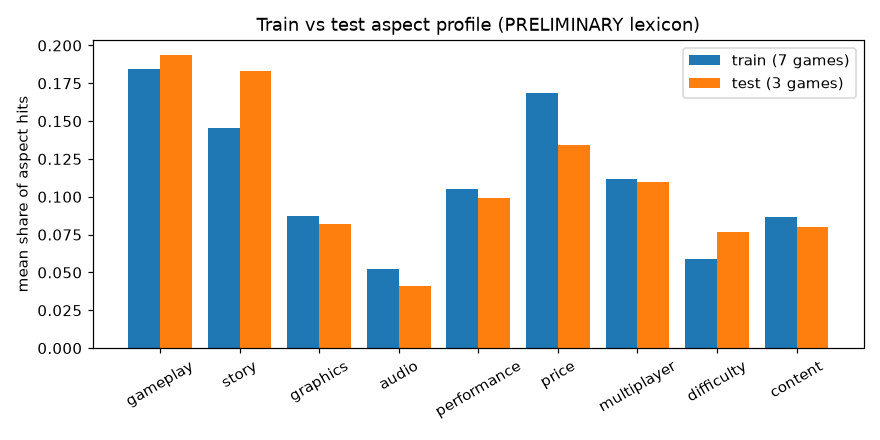
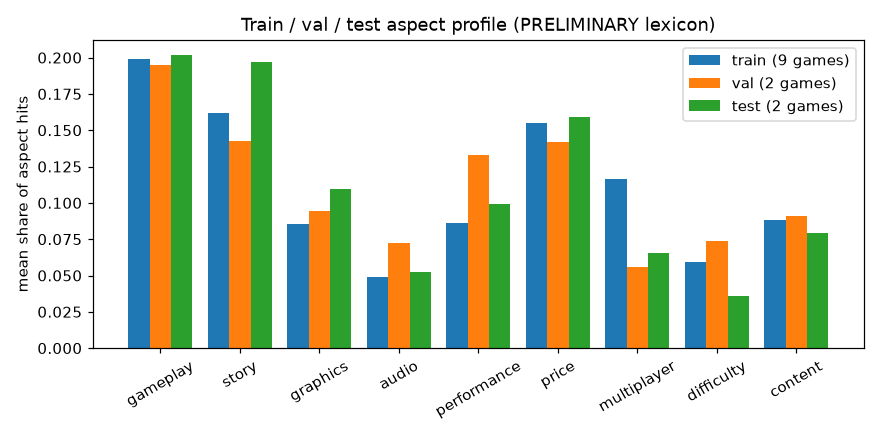
docs(eda): update EDA outputs for the 9/2/2 split and 75-review sample
7,006 sentences to verify (about 10-19 h): train 5,154, val 1,001, test 851.

diff --git a/experiments/task2_aspect/eda/outputs/eda_report.md b/experiments/task2_aspect/eda/outputs/eda_report.md
@@ -29,23 +29,28 @@ Anything that depends on the lexicon is **PRELIMINARY** (placeholder seed lexico
   entities (`html.unescape`) before labeling.
 - Labels are skewed: 82.0% of reviews are recommended (`score_distribution.csv`).
 
-### (b) Recommended games and 7/3 split — PRELIMINARY
+### (b) Recommended games and 9/2/2 train/val/test split — PRELIMINARY
+
+Owner decision (2026-11-16): 13 games split **by game** 9 / 2 / 2 (≈ 69 / 15 / 15), so val and
+test games are never seen in training. The 13 are the earlier 10 picks plus their 3 backups.
 
 | split | games |
 |---|---|
-| train (7) | Lara Croft and the Temple of Osiris (289690), Sniper: Ghost Warrior 2 (34870), Test Drive Unlimited 2 (9930), Might & Magic: Heroes VI (48220), Company of Heroes 2 (231430), Two Worlds II HD (7520), Paper Sorcerer (263560) |
-| test (3) | HITMAN (236870), Alien Rage - Unlimited (217920), Transformers: Rise of the Dark Spark (245760) |
-| backup | Battlefleet Gothic: Armada (363680), Toren (320820), Tony Hawk's Pro Skater HD (207210) |
+| train (9) | Lara Croft and the Temple of Osiris (289690), HITMAN (236870), Alien Rage - Unlimited (217920), Test Drive Unlimited 2 (9930), Company of Heroes 2 (231430), Transformers: Rise of the Dark Spark (245760), Battlefleet Gothic: Armada (363680), Toren (320820), Tony Hawk's Pro Skater HD (207210) |
+| val (2) | Might & Magic: Heroes VI (48220), Paper Sorcerer (263560) |
+| test (2) | Sniper: Ghost Warrior 2 (34870), Two Worlds II HD (7520) |
+| backup | Grey Goo (290790), Armikrog (334120), Call of Juarez: The Cartel (33420) |
 
 Source and one-line justifications: `../selected_games.csv`. Genres span action-adventure,
-shooters, stealth, racing, turn-based and real-time strategy, an action RPG and a dungeon
-crawler. All 10 have >= 7 of the 9 aspects at >= 5% of their lexicon hits
-(`selected_games_metrics.csv`). The split is close on every axis: JS divergence of the
-aspect profiles 0.0047 bits, recommend-share gap 0.006, hit-rate gap 0.021, best of 120
-partitions (`split_objective.json`, `split_comparison.csv`). Train and test do differ in median
-review length (223 vs 338 chars).
+shooters, stealth, racing, skateboarding, turn-based and real-time strategy, a puzzle
+platformer, an action RPG and a dungeon crawler. All 13 have >= 7 of the 9 aspects at >= 5%
+of their lexicon hits (`selected_games_metrics.csv`). Best of 4,290 partitions
+(`split_objective.json`, `split_comparison.csv`): train vs val JS divergence 0.0147 bits,
+recommend-share gap 0.003, hit-rate gap 0.017; train vs test 0.0102 bits, 0.003, 0.010.
+Known imbalance: **multiplayer** is rarer in val (0.056) and test (0.066) than in train
+(0.117), and test reviews are shorter (median 205 vs 295 chars in train).
 
-Check before committing to these: the picks lean **negative** (mean recommend share 0.57 vs
+Check before committing to these: the picks lean **negative** (mean recommend share 0.59 vs
 0.82 corpus-wide, `split_comparison.csv`, `score_distribution.csv`) because the score rewards
 some criticism; they lean towards **action/shooter**; Transformers has only 226 clean reviews.
 Swap in a backup if you want a more positive or less action-heavy set.
@@ -101,13 +106,13 @@ strongest) or map them to `other`.
 
 ### (f) Manual-verification workload
 
-Scope reduced to **50 reviews per game** (decision of the Task 2 owner, 2026-11-16):
-500 reviews → **3,609 sentences** (3,321 with >= 4 tokens): train 2,334 sentences from 7
-games, test 1,275 from 3 games. At 5–10 s per sentence to verify an LLM label that is
-**5–10 hours** (`candidate_sample_summary.csv`). The longest is Transformers: 575
-sentences. The 50-review sample is the first 50 of the same seeded per-game shuffle, so it
-is a strict subset of the earlier 150-review draw (10,145 sentences, 14–28 h) and can be
-grown later without relabeling.
+Owner decision (2026-11-16): an LLM pre-labels every sentence and the owner verifies, with
+**75 reviews per game** over the 13 games: 975 reviews → **7,006 sentences** (6,451 with >= 4
+tokens). By sentences the split is train 5,154 (74%) / val 1,001 (14%) / test 851 (12%);
+Transformers alone has 977 sentences. At 5–10 s per sentence to verify an LLM label that is
+**10–19 hours** (`candidate_sample_summary.csv`). For the original 10 games the 75 reviews
+are the first 75 of the same seeded per-game shuffle, i.e. a subset of the earlier
+150-review draw, so the sample can grow later without relabeling.
 
 ### (g) Risks and open questions
 
@@ -701,67 +706,77 @@ _Source: `tables/topic_candidate_themes.csv`_
 
 ## 5. Game selection — PRELIMINARY (depends on the lexicon)
 
-Candidates: games with >= 200 clean English reviews. Score = weighted sum of z-scores (hit_rate×1.0, aspect_entropy×1.0, aspects_ge_5pct×0.5, informative_share×1.0, log_n_clean×0.25, negative_share_capped×0.5). Steam metadata fetched for the top 150; then greedy picks with at least 3 games having >= 25% negative reviews, at most 1 game per primary SteamSpy tag and 4 per Steam genre. Genres come from the Steam store / SteamSpy, not inferred from names. Split: all 7/3 partitions searched, minimizing JS divergence of mean aspect profiles + ½ gap in recommend share + ½ gap in hit rate, with >= 1 negative-heavy game in test.
+Candidates: games with >= 200 clean English reviews. Score = weighted sum of z-scores (hit_rate×1.0, aspect_entropy×1.0, aspects_ge_5pct×0.5, informative_share×1.0, log_n_clean×0.25, negative_share_capped×0.5). Steam metadata fetched for the top 150; then greedy picks with at least 3 games having >= 25% negative reviews, at most 1 game per primary SteamSpy tag and 4 per Steam genre. Genres come from the Steam store / SteamSpy, not inferred from names. Split by game: all 9/2/2 (train/val/test) partitions searched, minimizing, for val and for test against train, JS divergence of mean aspect profiles + ½ gap in recommend share + ½ gap in hit rate, with >= 1 negative-heavy game in both val and test.
 
 | game_id | name | split | justification |
 |---|---|---|---|
 | 289690 | LARA CROFT AND THE TEMPLE OF OSIRIS™ | train | Puzzle; 402 clean EN reviews, 57% negative; lexicon hit rate 41%, 8 aspects >=5% (top: gameplay 25%, multiplayer 19%, performance 16%) |
-| 34870 | Sniper: Ghost Warrior 2 | train | Sniper; 1,335 clean EN reviews, 37% negative; lexicon hit rate 40%, 8 aspects >=5% (top: story 18%, gameplay 15%, price 14%) |
-| 236870 | HITMAN™ | test | Stealth; 3,563 clean EN reviews, 38% negative; lexicon hit rate 36%, 8 aspects >=5% (top: gameplay 23%, price 18%, multiplayer 14%) |
-| 217920 | Alien Rage - Unlimited | test | Shooter; 452 clean EN reviews, 29% negative; lexicon hit rate 40%, 8 aspects >=5% (top: gameplay 21%, story 15%, performance 14%) |
+| 34870 | Sniper: Ghost Warrior 2 | test | Sniper; 1,335 clean EN reviews, 37% negative; lexicon hit rate 40%, 8 aspects >=5% (top: story 18%, gameplay 15%, price 14%) |
+| 236870 | HITMAN™ | train | Stealth; 3,563 clean EN reviews, 38% negative; lexicon hit rate 36%, 8 aspects >=5% (top: gameplay 23%, price 18%, multiplayer 14%) |
+| 217920 | Alien Rage - Unlimited | train | Shooter; 452 clean EN reviews, 29% negative; lexicon hit rate 40%, 8 aspects >=5% (top: gameplay 21%, story 15%, performance 14%) |
 | 9930 | Test Drive Unlimited 2 | train | Racing; 1,929 clean EN reviews, 46% negative; lexicon hit rate 30%, 9 aspects >=5% (top: price 24%, multiplayer 22%, story 10%) |
-| 48220 | Might & Magic: Heroes VI | train | Turn-Based Strategy; 1,950 clean EN reviews, 65% negative; lexicon hit rate 29%, 8 aspects >=5% (top: performance 19%, price 18%, story 12%) |
+| 48220 | Might & Magic: Heroes VI | val | Turn-Based Strategy; 1,950 clean EN reviews, 65% negative; lexicon hit rate 29%, 8 aspects >=5% (top: performance 19%, price 18%, story 12%) |
 | 231430 | Company of Heroes 2 | train | World War II; 9,845 clean EN reviews, 29% negative; lexicon hit rate 35%, 8 aspects >=5% (top: price 26%, gameplay 17%, multiplayer 14%) |
-| 7520 | Two Worlds II HD | train | Third Person; 1,517 clean EN reviews, 46% negative; lexicon hit rate 35%, 8 aspects >=5% (top: gameplay 25%, story 21%, price 18%) |
-| 245760 | TRANSFORMERS: Rise of the Dark Spark | test | Robots; 226 clean EN reviews, 62% negative; lexicon hit rate 38%, 7 aspects >=5% (top: story 32%, gameplay 14%, price 13%) |
-| 263560 | Paper Sorcerer | train | Dungeon Crawler; 366 clean EN reviews, 17% negative; lexicon hit rate 41%, 8 aspects >=5% (top: gameplay 29%, story 16%, audio 13%) |
-| 363680 | Battlefleet Gothic: Armada (Classic) | backup | Warhammer 40K; 1,879 clean EN reviews, 30% negative; lexicon hit rate 35%, 8 aspects >=5% (top: gameplay 26%, story 21%, multiplayer 10%) |
-| 320820 | Toren | backup | Puzzle-Platformer; 332 clean EN reviews, 35% negative; lexicon hit rate 46%, 7 aspects >=5% (top: story 28%, gameplay 26%, graphics 14%) |
-| 207210 | Tony Hawks Pro Skater HD | backup | Sports; 787 clean EN reviews, 41% negative; lexicon hit rate 29%, 8 aspects >=5% (top: price 22%, gameplay 19%, graphics 12%) |
+| 7520 | Two Worlds II HD | test | Third Person; 1,517 clean EN reviews, 46% negative; lexicon hit rate 35%, 8 aspects >=5% (top: gameplay 25%, story 21%, price 18%) |
+| 245760 | TRANSFORMERS: Rise of the Dark Spark | train | Robots; 226 clean EN reviews, 62% negative; lexicon hit rate 38%, 7 aspects >=5% (top: story 32%, gameplay 14%, price 13%) |
+| 263560 | Paper Sorcerer | val | Dungeon Crawler; 366 clean EN reviews, 17% negative; lexicon hit rate 41%, 8 aspects >=5% (top: gameplay 29%, story 16%, audio 13%) |
+| 363680 | Battlefleet Gothic: Armada (Classic) | train | Warhammer 40K; 1,879 clean EN reviews, 30% negative; lexicon hit rate 35%, 8 aspects >=5% (top: gameplay 26%, story 21%, multiplayer 10%) |
+| 320820 | Toren | train | Puzzle-Platformer; 332 clean EN reviews, 35% negative; lexicon hit rate 46%, 7 aspects >=5% (top: story 28%, gameplay 26%, graphics 14%) |
+| 207210 | Tony Hawks Pro Skater HD | train | Sports; 787 clean EN reviews, 41% negative; lexicon hit rate 29%, 8 aspects >=5% (top: price 22%, gameplay 19%, graphics 12%) |
+| 290790 | Grey Goo | backup | RTS; 1,676 clean EN reviews, 30% negative; lexicon hit rate 28%, 9 aspects >=5% (top: story 24%, gameplay 20%, price 13%) |
+| 334120 | Armikrog | backup | Point & Click; 462 clean EN reviews, 53% negative; lexicon hit rate 38%, 7 aspects >=5% (top: gameplay 25%, story 21%, audio 14%) |
+| 33420 | Call of Juarez: The Cartel | backup | FPS; 213 clean EN reviews, 65% negative; lexicon hit rate 34%, 8 aspects >=5% (top: story 28%, gameplay 15%, price 12%) |
 
 _Source: `selected_games.csv`_
 
 | app_id | name | split | primary_tag | n_clean | median_chars_clean | hit_rate | aspects_ge_5pct | aspect_entropy | informative_share | pos_share_clean | score |
 |---|---|---|---|---|---|---|---|---|---|---|---|
-| 363,680 | Battlefleet Gothic: Armada (Classic) | backup | Warhammer 40K | 1,879 | 313 | 0.347 | 8 | 0.917 | 0.957 | 0.698 | 3.165 |
-| 320,820 | Toren | backup | Puzzle-Platformer | 332 | 472 | 0.456 | 7 | 0.830 | 0.991 | 0.648 | 3.146 |
-| 207,210 | Tony Hawks Pro Skater HD | backup | Sports | 787 | 242 | 0.293 | 8 | 0.939 | 0.980 | 0.595 | 3.112 |
-| 236,870 | HITMAN™ | test | Stealth | 3,563 | 353 | 0.362 | 8 | 0.926 | 0.970 | 0.619 | 4.028 |
-| 217,920 | Alien Rage - Unlimited | test | Shooter | 452 | 285.500 | 0.396 | 8 | 0.956 | 0.962 | 0.715 | 4.018 |
-| 245,760 | TRANSFORMERS: Rise of the Dark Spark | test | Robots | 226 | 375.500 | 0.383 | 7 | 0.894 | 0.966 | 0.376 | 3.193 |
+| 290,790 | Grey Goo | backup | RTS | 1,676 | 279.500 | 0.280 | 9 | 0.937 | 0.969 | 0.696 | 3.087 |
+| 334,120 | Armikrog | backup | Point & Click | 462 | 501 | 0.379 | 7 | 0.874 | 0.964 | 0.470 | 3.021 |
+| 33,420 | Call of Juarez: The Cartel | backup | FPS | 213 | 251 | 0.341 | 8 | 0.918 | 0.925 | 0.352 | 3.016 |
+| 34,870 | Sniper: Ghost Warrior 2 | test | Sniper | 1,335 | 170 | 0.399 | 8 | 0.962 | 0.939 | 0.634 | 4.448 |
+| 7,520 | Two Worlds II HD | test | Third Person | 1,517 | 240 | 0.354 | 8 | 0.891 | 0.948 | 0.544 | 3.321 |
 | 289,690 | LARA CROFT AND THE TEMPLE OF OSIRIS™ | train | Puzzle | 402 | 264.500 | 0.411 | 8 | 0.911 | 0.983 | 0.428 | 4.552 |
-| 34,870 | Sniper: Ghost Warrior 2 | train | Sniper | 1,335 | 170 | 0.399 | 8 | 0.962 | 0.939 | 0.634 | 4.448 |
+| 236,870 | HITMAN™ | train | Stealth | 3,563 | 353 | 0.362 | 8 | 0.926 | 0.970 | 0.619 | 4.028 |
+| 217,920 | Alien Rage - Unlimited | train | Shooter | 452 | 285.500 | 0.396 | 8 | 0.956 | 0.962 | 0.715 | 4.018 |
 | 9,930 | Test Drive Unlimited 2 | train | Racing | 1,929 | 178 | 0.304 | 9 | 0.929 | 0.942 | 0.536 | 3.642 |
-| 48,220 | Might & Magic: Heroes VI | train | Turn-Based Strategy | 1,950 | 223 | 0.287 | 8 | 0.947 | 0.964 | 0.349 | 3.521 |
 | 231,430 | Company of Heroes 2 | train | World War II | 9,845 | 170 | 0.349 | 8 | 0.919 | 0.940 | 0.711 | 3.388 |
-| 7,520 | Two Worlds II HD | train | Third Person | 1,517 | 240 | 0.354 | 8 | 0.891 | 0.948 | 0.544 | 3.321 |
-| 263,560 | Paper Sorcerer | train | Dungeon Crawler | 366 | 318.500 | 0.413 | 8 | 0.886 | 0.992 | 0.828 | 3.173 |
+| 245,760 | TRANSFORMERS: Rise of the Dark Spark | train | Robots | 226 | 375.500 | 0.383 | 7 | 0.894 | 0.966 | 0.376 | 3.193 |
+| 363,680 | Battlefleet Gothic: Armada (Classic) | train | Warhammer 40K | 1,879 | 313 | 0.347 | 8 | 0.917 | 0.957 | 0.698 | 3.165 |
+| 320,820 | Toren | train | Puzzle-Platformer | 332 | 472 | 0.456 | 7 | 0.830 | 0.991 | 0.648 | 3.146 |
+| 207,210 | Tony Hawks Pro Skater HD | train | Sports | 787 | 242 | 0.293 | 8 | 0.939 | 0.980 | 0.595 | 3.112 |
+| 48,220 | Might & Magic: Heroes VI | val | Turn-Based Strategy | 1,950 | 223 | 0.287 | 8 | 0.947 | 0.964 | 0.349 | 3.521 |
+| 263,560 | Paper Sorcerer | val | Dungeon Crawler | 366 | 318.500 | 0.413 | 8 | 0.886 | 0.992 | 0.828 | 3.173 |
 
 _Source: `tables/selected_games_metrics.csv`_
 
-| metric | train | test |
-|---|---|---|
-| share_gameplay | 0.184 | 0.194 |
-| share_story | 0.145 | 0.183 |
-| share_graphics | 0.087 | 0.082 |
-| share_audio | 0.052 | 0.041 |
-| share_performance | 0.105 | 0.099 |
-| share_price | 0.169 | 0.134 |
-| share_multiplayer | 0.112 | 0.110 |
-| share_difficulty | 0.059 | 0.077 |
-| share_content | 0.087 | 0.080 |
-| hit_rate | 0.360 | 0.380 |
-| pos_share_clean | 0.576 | 0.570 |
-| aspect_entropy | 0.921 | 0.925 |
-| median_chars_clean | 223.429 | 338 |
+| metric | train | val | test |
+|---|---|---|---|
+| share_gameplay | 0.199 | 0.195 | 0.202 |
+| share_story | 0.162 | 0.142 | 0.197 |
+| share_graphics | 0.085 | 0.095 | 0.109 |
+| share_audio | 0.049 | 0.072 | 0.052 |
+| share_performance | 0.086 | 0.133 | 0.099 |
+| share_price | 0.155 | 0.142 | 0.159 |
+| share_multiplayer | 0.117 | 0.056 | 0.066 |
+| share_difficulty | 0.059 | 0.074 | 0.036 |
+| share_content | 0.088 | 0.091 | 0.079 |
+| hit_rate | 0.367 | 0.350 | 0.377 |
+| pos_share_clean | 0.592 | 0.588 | 0.589 |
+| aspect_entropy | 0.913 | 0.916 | 0.926 |
+| median_chars_clean | 294.833 | 270.750 | 205 |
+| games | 9.000 | 2.000 | 2.000 |
 
 _Source: `tables/split_comparison.csv`_
 
-Split objective (`tables/split_objective.json`): JS divergence 0.0047 bits, recommend-share gap 0.006, hit-rate gap 0.021, over 120 partitions.
+- train vs val: JS divergence 0.0147 bits, recommend-share gap 0.003, hit-rate gap 0.017
+- train vs test: JS divergence 0.0102 bits, recommend-share gap 0.003, hit-rate gap 0.010
 
-![Train vs test aspect profile](figures/split_comparison.png)
+Best of 4,290 partitions (`tables/split_objective.json`).
 
-_Train vs test aspect profile_
+![Train / val / test aspect profile](figures/split_comparison.png)
+
+_Train / val / test aspect profile_
 
 Top 20 scored candidates:
 
@@ -792,20 +807,23 @@ _Source: `tables/game_candidates_scored.csv` (first 20 of 2346 rows)_
 
 ## 6. Candidate labeling sample (not labeled, not committed)
 
-`data/processed/candidate_sample.csv` and `.jsonl`: 50 clean English reviews per selected game, uniform random from the game's full clean pool, seed 42, same splitter. Columns: game_id, game_name, split, review_id (raw CSV row number), sentence_id (`<review_id>-<k>`), sentence, recommended, n_words. Workload assumes [5, 10] seconds to verify one LLM label.
+`data/processed/candidate_sample.csv` and `.jsonl`: 75 clean English reviews per selected game, uniform random from the game's full clean pool, seed 42, same splitter. Columns: game_id, game_name, split, review_id (raw CSV row number), sentence_id (`<review_id>-<k>`), sentence, recommended, n_words. Workload assumes [5, 10] seconds to verify one LLM label.
 
 | game_id | game_name | split | reviews | sentences | informative_sentences | recommended_share | verify_hours_low | verify_hours_high |
 |---|---|---|---|---|---|---|---|---|
-| 7,520 | Two Worlds II HD | train | 50 | 316 | 291 | 0.668 | 0.439 | 0.878 |
-| 9,930 | Test Drive Unlimited 2 | train | 50 | 325 | 295 | 0.526 | 0.451 | 0.903 |
-| 34,870 | Sniper: Ghost Warrior 2 | train | 50 | 269 | 249 | 0.710 | 0.374 | 0.747 |
-| 48,220 | Might & Magic: Heroes VI | train | 50 | 289 | 266 | 0.384 | 0.401 | 0.803 |
-| 231,430 | Company of Heroes 2 | train | 50 | 330 | 297 | 0.379 | 0.458 | 0.917 |
-| 263,560 | Paper Sorcerer | train | 50 | 427 | 405 | 0.892 | 0.593 | 1.186 |
-| 289,690 | LARA CROFT AND THE TEMPLE OF OSIRIS™ | train | 50 | 378 | 349 | 0.619 | 0.525 | 1.050 |
-| 217,920 | Alien Rage - Unlimited | test | 50 | 356 | 326 | 0.716 | 0.494 | 0.989 |
-| 236,870 | HITMAN™ | test | 50 | 344 | 313 | 0.584 | 0.478 | 0.956 |
-| 245,760 | TRANSFORMERS: Rise of the Dark Spark | test | 50 | 575 | 530 | 0.190 | 0.799 | 1.597 |
-|  | TOTAL |  | 500 | 3,609 | 3,321 |  | 5.013 | 10.025 |
+| 48,220 | Might & Magic: Heroes VI | val | 75 | 437 | 405 | 0.359 | 0.607 | 1.214 |
+| 263,560 | Paper Sorcerer | val | 75 | 564 | 538 | 0.825 | 0.783 | 1.567 |
+| 9,930 | Test Drive Unlimited 2 | train | 75 | 425 | 386 | 0.499 | 0.590 | 1.181 |
+| 207,210 | Tony Hawks Pro Skater HD | train | 75 | 386 | 362 | 0.474 | 0.536 | 1.072 |
+| 217,920 | Alien Rage - Unlimited | train | 75 | 561 | 509 | 0.674 | 0.779 | 1.558 |
+| 231,430 | Company of Heroes 2 | train | 75 | 462 | 422 | 0.411 | 0.642 | 1.283 |
+| 236,870 | HITMAN™ | train | 75 | 555 | 509 | 0.540 | 0.771 | 1.542 |
+| 245,760 | TRANSFORMERS: Rise of the Dark Spark | train | 75 | 977 | 890 | 0.172 | 1.357 | 2.714 |
+| 289,690 | LARA CROFT AND THE TEMPLE OF OSIRIS™ | train | 75 | 545 | 500 | 0.501 | 0.757 | 1.514 |
+| 320,820 | Toren | train | 75 | 682 | 626 | 0.689 | 0.947 | 1.894 |
+| 363,680 | Battlefleet Gothic: Armada (Classic) | train | 75 | 561 | 522 | 0.590 | 0.779 | 1.558 |
+| 7,520 | Two Worlds II HD | test | 75 | 459 | 426 | 0.588 | 0.637 | 1.275 |
+| 34,870 | Sniper: Ghost Warrior 2 | test | 75 | 392 | 356 | 0.732 | 0.544 | 1.089 |
+|  | TOTAL |  | 975 | 7,006 | 6,451 |  | 9.731 | 19.461 |
 
 _Source: `tables/candidate_sample_summary.csv`_

diff --git a/experiments/task2_aspect/eda/outputs/decisions.md b/experiments/task2_aspect/eda/outputs/decisions.md
@@ -19,23 +19,28 @@ Anything that depends on the lexicon is **PRELIMINARY** (placeholder seed lexico
   entities (`html.unescape`) before labeling.
 - Labels are skewed: 82.0% of reviews are recommended (`score_distribution.csv`).
 
-### (b) Recommended games and 7/3 split — PRELIMINARY
+### (b) Recommended games and 9/2/2 train/val/test split — PRELIMINARY
+
+Owner decision (2026-11-16): 13 games split **by game** 9 / 2 / 2 (≈ 69 / 15 / 15), so val and
+test games are never seen in training. The 13 are the earlier 10 picks plus their 3 backups.
 
 | split | games |
 |---|---|
-| train (7) | Lara Croft and the Temple of Osiris (289690), Sniper: Ghost Warrior 2 (34870), Test Drive Unlimited 2 (9930), Might & Magic: Heroes VI (48220), Company of Heroes 2 (231430), Two Worlds II HD (7520), Paper Sorcerer (263560) |
-| test (3) | HITMAN (236870), Alien Rage - Unlimited (217920), Transformers: Rise of the Dark Spark (245760) |
-| backup | Battlefleet Gothic: Armada (363680), Toren (320820), Tony Hawk's Pro Skater HD (207210) |
+| train (9) | Lara Croft and the Temple of Osiris (289690), HITMAN (236870), Alien Rage - Unlimited (217920), Test Drive Unlimited 2 (9930), Company of Heroes 2 (231430), Transformers: Rise of the Dark Spark (245760), Battlefleet Gothic: Armada (363680), Toren (320820), Tony Hawk's Pro Skater HD (207210) |
+| val (2) | Might & Magic: Heroes VI (48220), Paper Sorcerer (263560) |
+| test (2) | Sniper: Ghost Warrior 2 (34870), Two Worlds II HD (7520) |
+| backup | Grey Goo (290790), Armikrog (334120), Call of Juarez: The Cartel (33420) |
 
 Source and one-line justifications: `../selected_games.csv`. Genres span action-adventure,
-shooters, stealth, racing, turn-based and real-time strategy, an action RPG and a dungeon
-crawler. All 10 have >= 7 of the 9 aspects at >= 5% of their lexicon hits
-(`selected_games_metrics.csv`). The split is close on every axis: JS divergence of the
-aspect profiles 0.0047 bits, recommend-share gap 0.006, hit-rate gap 0.021, best of 120
-partitions (`split_objective.json`, `split_comparison.csv`). Train and test do differ in median
-review length (223 vs 338 chars).
+shooters, stealth, racing, skateboarding, turn-based and real-time strategy, a puzzle
+platformer, an action RPG and a dungeon crawler. All 13 have >= 7 of the 9 aspects at >= 5%
+of their lexicon hits (`selected_games_metrics.csv`). Best of 4,290 partitions
+(`split_objective.json`, `split_comparison.csv`): train vs val JS divergence 0.0147 bits,
+recommend-share gap 0.003, hit-rate gap 0.017; train vs test 0.0102 bits, 0.003, 0.010.
+Known imbalance: **multiplayer** is rarer in val (0.056) and test (0.066) than in train
+(0.117), and test reviews are shorter (median 205 vs 295 chars in train).
 
-Check before committing to these: the picks lean **negative** (mean recommend share 0.57 vs
+Check before committing to these: the picks lean **negative** (mean recommend share 0.59 vs
 0.82 corpus-wide, `split_comparison.csv`, `score_distribution.csv`) because the score rewards
 some criticism; they lean towards **action/shooter**; Transformers has only 226 clean reviews.
 Swap in a backup if you want a more positive or less action-heavy set.
@@ -91,13 +96,13 @@ strongest) or map them to `other`.
 
 ### (f) Manual-verification workload
 
-Scope reduced to **50 reviews per game** (decision of the Task 2 owner, 2026-11-16):
-500 reviews → **3,609 sentences** (3,321 with >= 4 tokens): train 2,334 sentences from 7
-games, test 1,275 from 3 games. At 5–10 s per sentence to verify an LLM label that is
-**5–10 hours** (`candidate_sample_summary.csv`). The longest is Transformers: 575
-sentences. The 50-review sample is the first 50 of the same seeded per-game shuffle, so it
-is a strict subset of the earlier 150-review draw (10,145 sentences, 14–28 h) and can be
-grown later without relabeling.
+Owner decision (2026-11-16): an LLM pre-labels every sentence and the owner verifies, with
+**75 reviews per game** over the 13 games: 975 reviews → **7,006 sentences** (6,451 with >= 4
+tokens). By sentences the split is train 5,154 (74%) / val 1,001 (14%) / test 851 (12%);
+Transformers alone has 977 sentences. At 5–10 s per sentence to verify an LLM label that is
+**10–19 hours** (`candidate_sample_summary.csv`). For the original 10 games the 75 reviews
+are the first 75 of the same seeded per-game shuffle, i.e. a subset of the earlier
+150-review draw, so the sample can grow later without relabeling.
 
 ### (g) Risks and open questions
 
